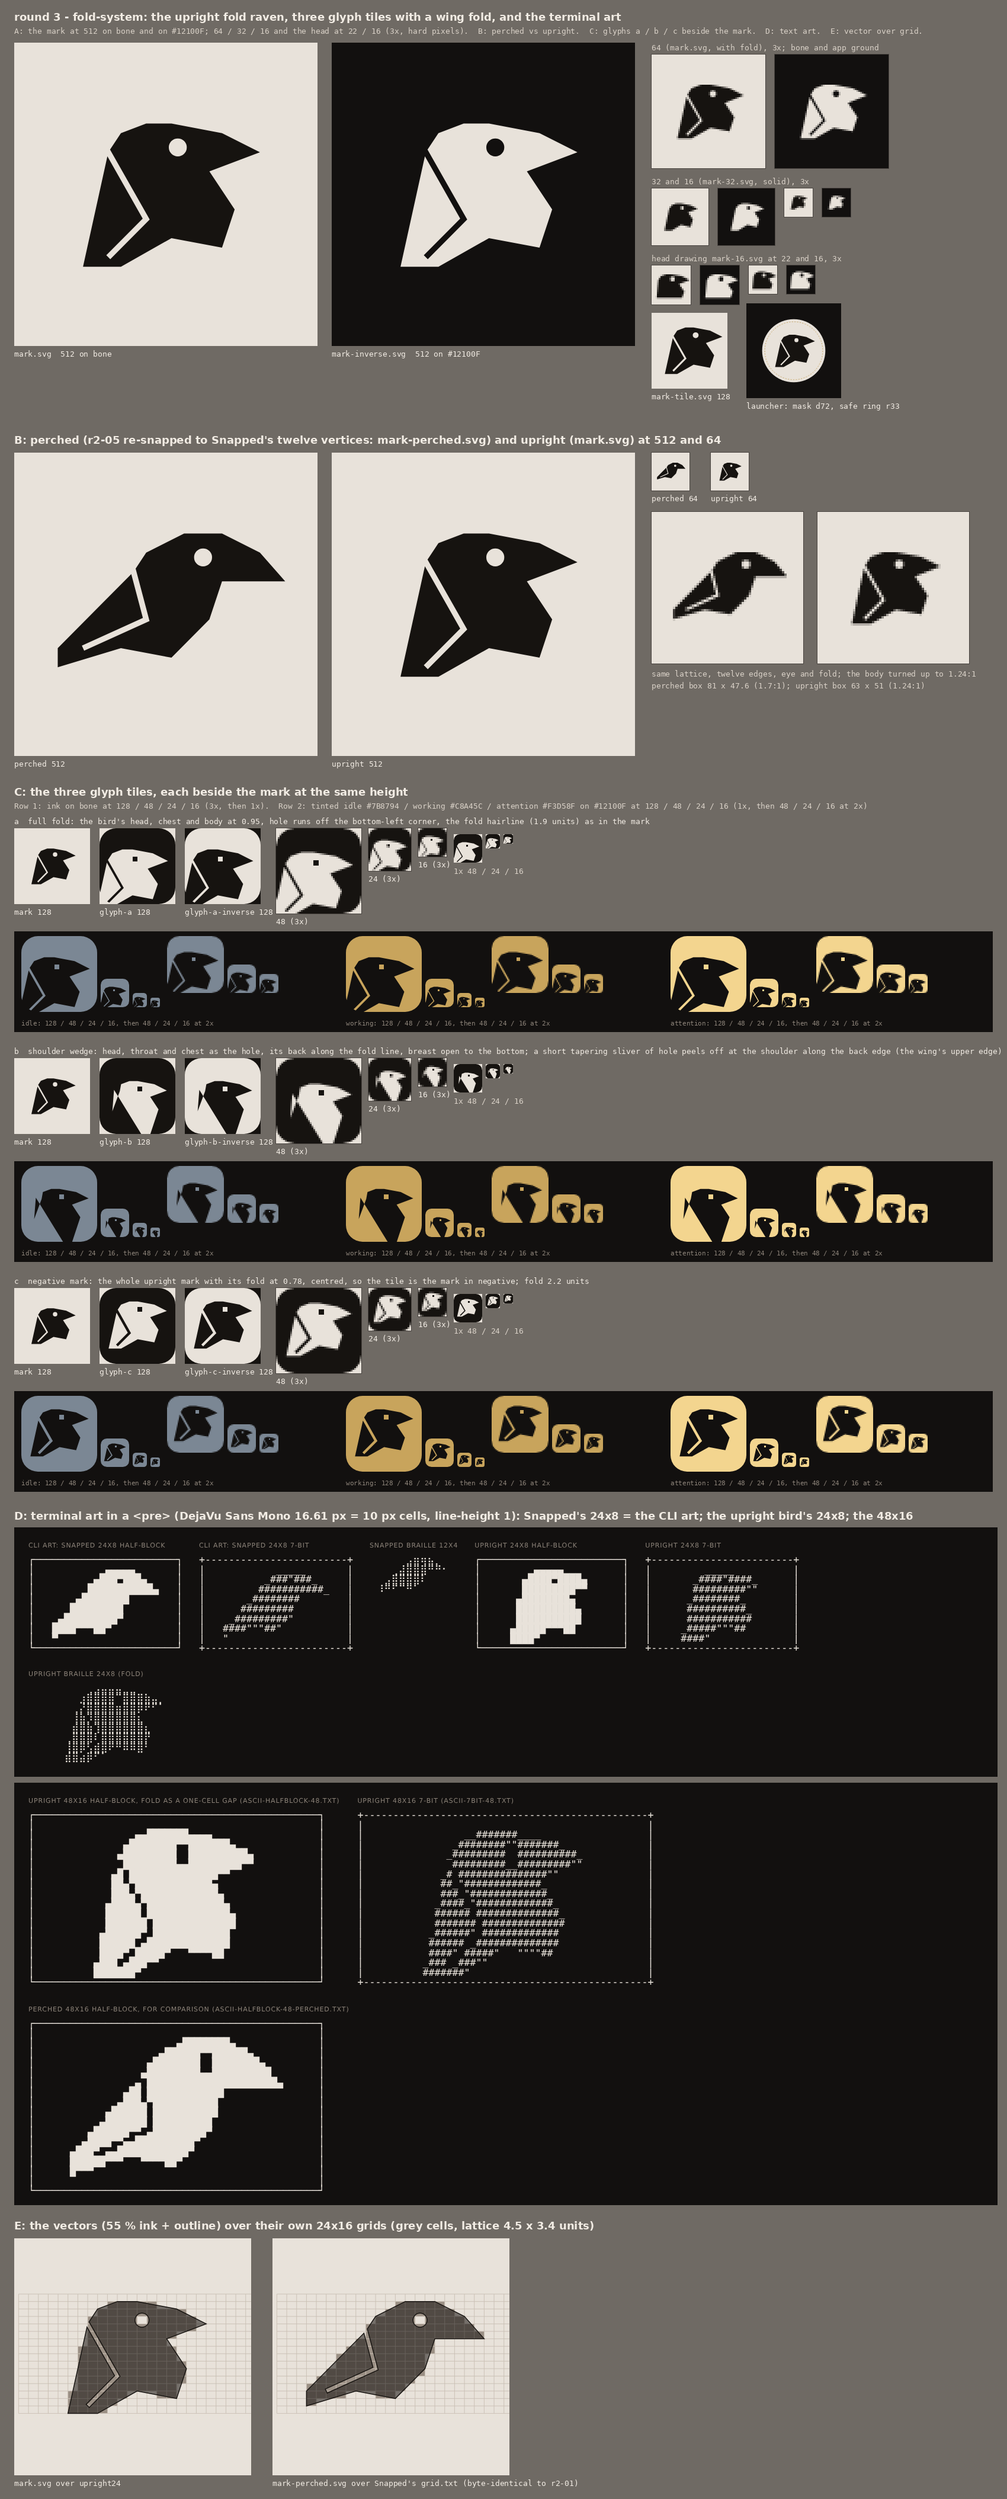
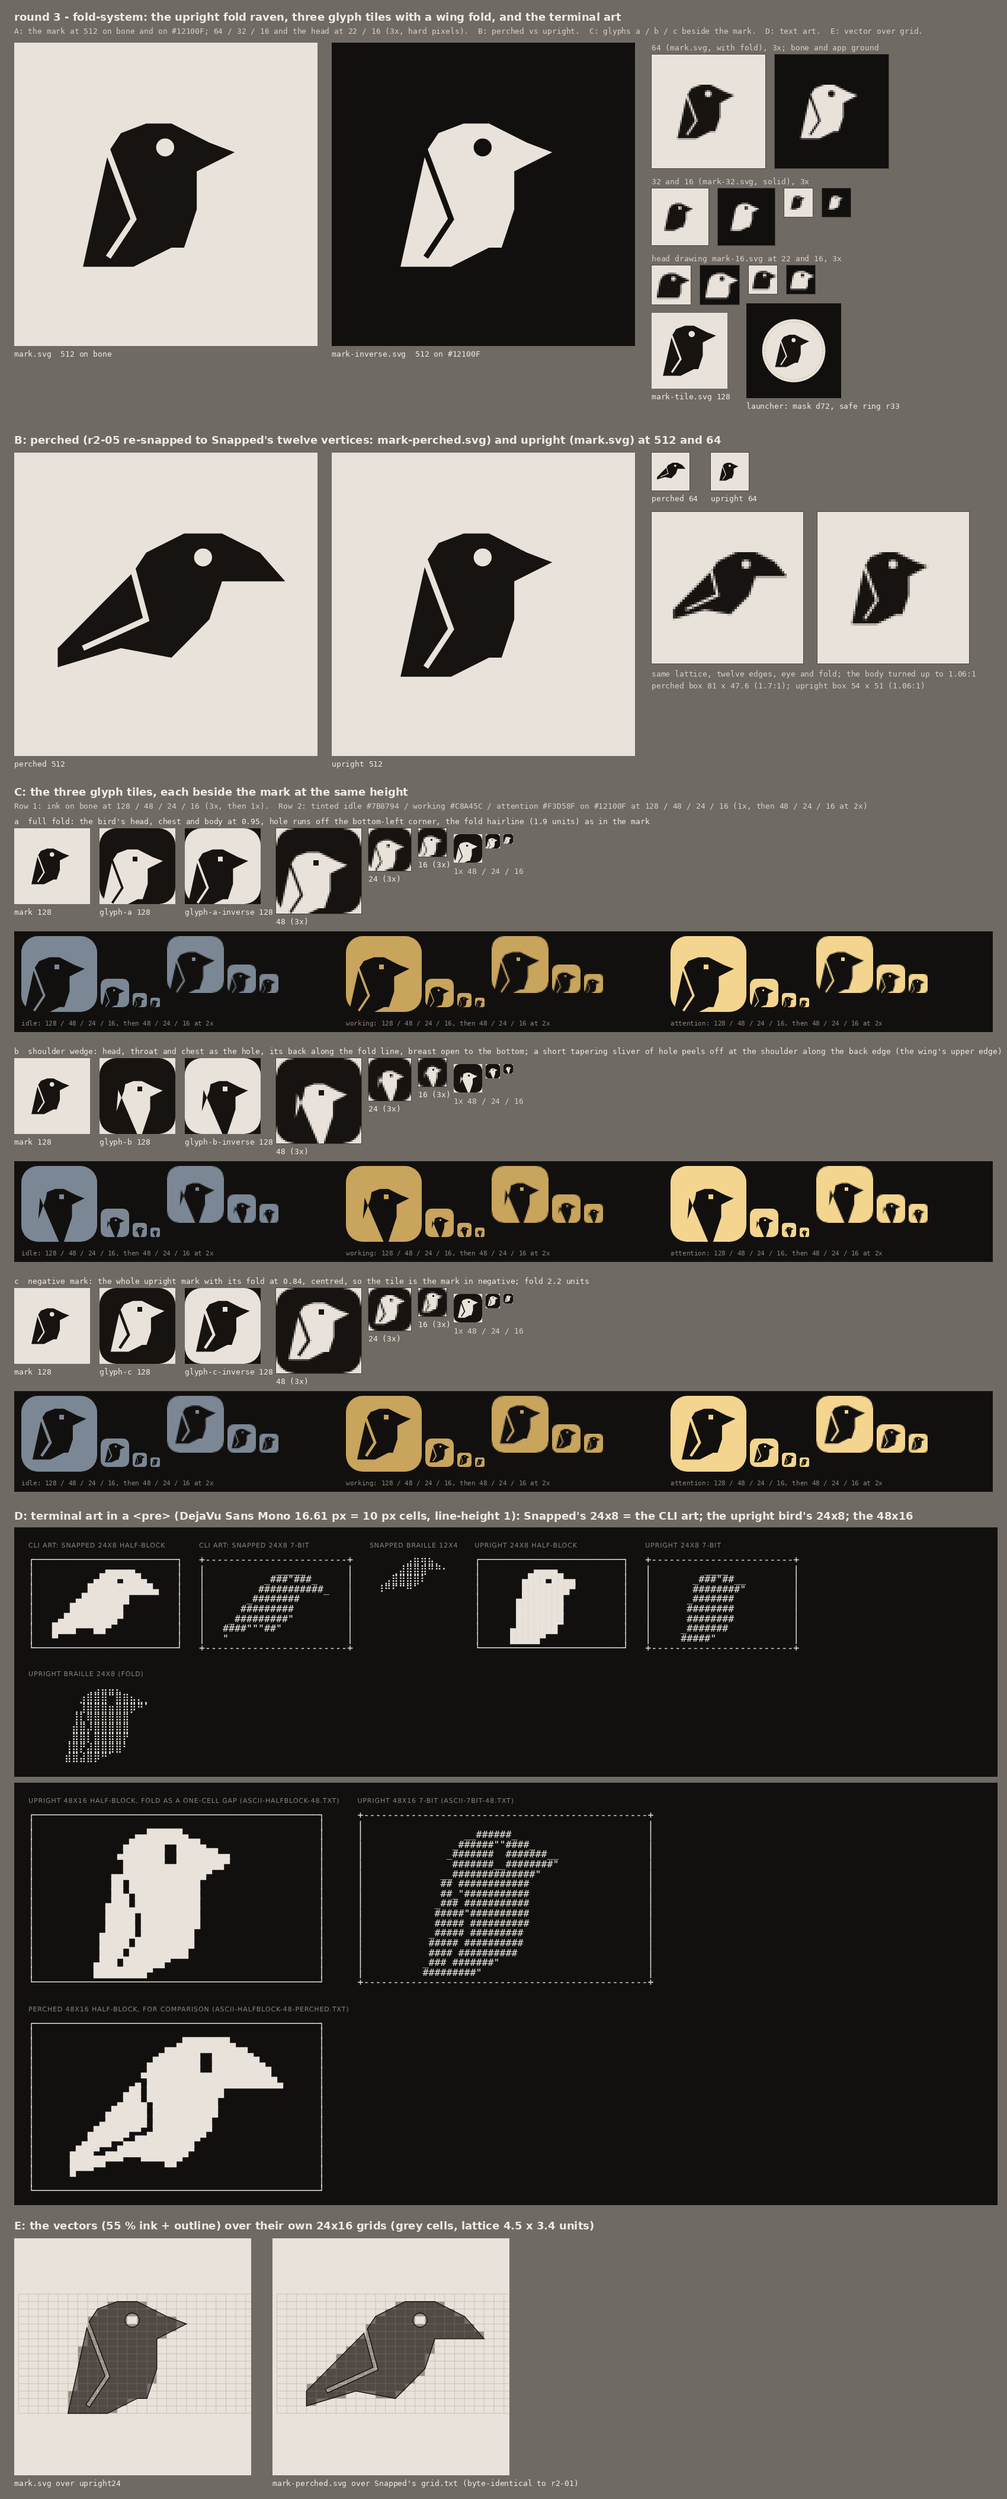
brand explorations round 3: the upright fold raven slimmed after the owner's note, glyph c and the text art regenerated
Claude-Session: https://claude.ai/code/session_01MsYQ558wxNsKznJYwKmX96

diff --git a/assets/brand/explorations/round3/fold-system/build.py b/assets/brand/explorations/round3/fold-system/build.py
@@ -16,7 +16,9 @@ fold along the folded wing):
   PERCHED  the r2-05 fold raven re-snapped to Snapped's twelve vertices (mark-perched.svg);
            its solid silhouette IS r2-01-snapped's mark, so it rasterises to Snapped's grid.
   UPRIGHT  the same bird standing up (owner's amendment): chest forward, head raised, bill
-           slightly up, 1.24:1, fold running steeper. mark.svg and the masters.
+           slightly up, fold running steeper. mark.svg and the masters. Revised after the
+           round-3 chooser ("too wide"): bill tip pulled in two columns, chest and belly three,
+           so the box is 54 x 51 (1.06:1) instead of 63 x 51 (1.24:1).
 No dependencies beyond Python 3 for the files; the preview uses ../../tools and PIL.
 """
 import math, os, subprocess, sys, tempfile
@@ -54,21 +56,21 @@ PERCHED_SHOULDER = 5
 PERCHED_FOLD = [PERCHED[5], P(10, 10), P(5, 13)]   # shoulder -> flap corner -> wing tip on the tail
 
 # ---------------------------------------------------------------- the upright bird (the mark)
-UPRIGHT = [P(19, 4),   # bill tip
-           P(16, 2),   # culmen
+UPRIGHT = [P(17, 4),   # bill tip
+           P(15, 3),   # culmen
            P(12, 1),   # forehead
            P(10, 1),   # crown
            P(8, 2),    # back of head
            P(7, 4),    # nape / shoulder (the fold opens here)
            P(5, 16),   # tail tip
-           P(8, 16),   # tail bottom (the tail stands on the ground)
-           P(12, 13),  # under-tail notch
-           P(16, 14),  # belly
-           P(17, 10),  # chest
-           P(15, 6)]   # throat
-UPRIGHT_EYE = ((56.25, 26.3), 3.2)           # centre of cell (12,3)
+           P(9, 16),   # tail bottom (the tail stands on the ground)
+           P(12, 14),  # under-tail notch
+           P(13, 14),  # belly
+           P(14, 10),  # chest
+           P(14, 6)]   # throat
+UPRIGHT_EYE = ((51.75, 26.3), 3.2)           # centre of cell (11,3)
 UPRIGHT_SHOULDER = 5
-UPRIGHT_FOLD = [UPRIGHT[5], P(10, 11), P(7, 15)]   # shoulder -> flap corner -> wing tip on the tail
+UPRIGHT_FOLD = [UPRIGHT[5], P(9, 11), P(7, 15)]   # shoulder -> flap corner -> wing tip on the tail
 FOLD_W = 1.0                                  # half-width: the slit is 2 units
 
 NAMES = ['bill tip', 'culmen', 'forehead', 'crown', 'back of head', 'nape', 'tail tip', 'tail bottom',
@@ -184,9 +186,19 @@ def svg(paths, fill=INK, bg=None, size=512, vb='0 0 108 108', tr='translate(2,11
 
 
 # ---------------------------------------------------------------- the head drawing (16-22 px)
-# the upright bird's head, bill and neck on a 7-unit cell (plain 108 viewBox), 10 edges + eye hole r 7
-HEAD = [(105, 40), (83.5, 29), (54.5, 24), (40, 24), (26, 29), (18.5, 40), (14, 90), (84, 90), (90.5, 73), (76, 51)]
-HEAD_EYE = ((58, 37.5), 6.5)
+# the upright bird's head, bill, throat and chest scaled HS about the bill tip (placed at 105,40), closed by the
+# ground line y 90; plain 108 viewBox, 10 edges + eye hole r 6.5 (bigger than scale for legibility at 16)
+HS = 1.8
+
+
+def _H(p):
+    t = UPRIGHT[0]
+    return (round(105 + HS * (p[0] - t[0]), 1), round(40 + HS * (p[1] - t[1]), 1))
+
+
+HEAD = [_H(UPRIGHT[0]), _H(UPRIGHT[1]), _H(UPRIGHT[2]), _H(UPRIGHT[3]), _H(UPRIGHT[4]), _H(UPRIGHT[5]),
+        (14, 90), (round(_H(UPRIGHT[10])[0] - 6, 1), 90), _H(UPRIGHT[10]), _H(UPRIGHT[11])]
+HEAD_EYE = (_H(UPRIGHT_EYE[0]), 6.5)
 
 # ---------------------------------------------------------------- glyph tiles (64 box)
 GLYPH_RX = 14
@@ -345,7 +357,7 @@ def extend(a, b, y):
 GLYPH = {  # the construction parameters: scale, eye cell (x, y of its top-left, multiples of 4), slit half-width (mark units)
     'a': dict(s=0.95, cell=(28, 24), w=1.0),
     'b': dict(s=0.78, cell=(32, 24), mouth=5.0, length=18.0, kind='hole'),
-    'c': dict(s=0.78, cell=(32, 16), w=1.4),
+    'c': dict(s=0.84, cell=(32, 16), w=1.4),
 }
 
 
@@ -476,19 +488,19 @@ def build_files(verbose=True):
     note = ('Huginn mark, round 3 fold-system: the fold raven standing upright (chest forward, head raised, bill '
             'slightly up) on Snapped\'s 24x16 half-block lattice (x = 4.5i, y = 14.4 + 3.4j), twelve lattice vertices '
             'plus ONE interior cut, a 2-unit slit that opens at the shoulder and separates the folded wing from the body. '
-            'ONE evenodd path: the outer ring and a circular eye hole. Box x 18-81, y 17.8-68.8 (63 x 51, 1.24:1); '
+            'ONE evenodd path: the outer ring and a circular eye hole. Box x 22.5-76.5, y 17.8-68.8 (54 x 51, 1.06:1); '
             'translate(2,11). Ink #161310. Vertices (col,row): ' + cells(UPRIGHT) + '. Below 32 px use mark-32.svg (no fold).')
     write('mark.svg', svg(up_paths, comment=note))
     write('mark-inverse.svg', svg(up_paths, fill=BONE, comment='Inverse: bone mark for dark grounds (#12100F). Same path as mark.svg.'))
-    # tile master: the 63 x 51 box scaled 1.3 and centred on the bone tile (x 13.05-94.95, 12 % inset)
-    s = 1.3
+    # tile master: the 54 x 51 box scaled 1.4 and centred on the bone tile (x 16.2-91.8, 15 % inset)
+    s = 1.4
     tx, ty = 54 - s * 49.5, 54 - s * 43.3
     write('mark-tile.svg', svg(up_paths, bg=BONE, tr=f'translate({tx:.2f},{ty:.2f}) scale({s})',
-                               comment='App-icon master: ink mark scaled 1.3 about the box centre on the bone tile (x 13-95, y 23.2-89.5; 12 % side inset). Same path as mark.svg.'))
+                               comment='App-icon master: ink mark scaled 1.4 about the box centre on the bone tile (x 16.2-91.8, y 18.3-89.7; 15 % side inset). Same path as mark.svg.'))
     write('mark-32.svg', svg(up_solid, comment='The upright silhouette without the fold: 32 px and below (favicon-32, tray at 200 %), and the source of grid-upright.txt. Same twelve vertices.'))
     write('mark-16.svg', svg([poly_d(HEAD), circle_d(*HEAD_EYE)], tr=None, comment=(
         'mark-16: the compact drawing for 16-22 px (tray, favicon-16): the upright bird\'s head, bill, throat and chest '
-        'on a 7-unit cell, 10 straight edges plus a circular eye hole r 7; box x 21-105, y 17-90 of a plain 108 viewBox, no fold.')))
+        'scaled 1.8 about the bill tip, 10 straight edges plus a circular eye hole r 6.5; box x 14-105, y 21.6-90 of a plain 108 viewBox, no fold.')))
     write('mark-perched.svg', svg(pe_paths, comment=(
         'For comparison: the perched r2-05 fold raven re-snapped to r2-01-snapped\'s twelve vertices on its lattice '
         '(x = 4.5i, y = 14.4 + 3.4j), with the 2-unit fold slit spliced at the nape. Its solid silhouette is byte-for-byte '
@@ -504,7 +516,7 @@ def build_files(verbose=True):
             'b': ('Glyph B "shoulder wedge": the head, throat, chest and the wing\'s upper edge as a hole (the bird at 0.83), the breast open '
                   'onto the bottom edge; the fold is a short ink wedge (3 units at the mouth, 11 long, tapering to nothing) opening at the '
                   'shoulder only; eye a 4x4 ink cell at x 32-36, y 24-28. ONE evenodd path.'),
-            'c': ('Glyph C "negative mark": the whole upright mark with its fold at 0.72 as a hole in the rounded square, so the tile is the mark '
+            'c': ('Glyph C "negative mark": the whole upright mark with its fold at 0.84 as a hole in the rounded square, so the tile is the mark '
                   'in negative; the fold is a 2.2-unit ink hairline, the eye a 4x4 ink cell at x 36-40, y 20-24. ONE evenodd path.')}[g]
         write(f'glyph-{g}.svg', svg(paths, vb='0 0 64 64', tr=None, comment=gnote))
         write(f'glyph-{g}-inverse.svg', svg(paths, fill=BONE, bg=INK, vb='0 0 64 64', tr=None,
@@ -833,8 +845,8 @@ def build_preview(grids):
     put(Tp('m-bone-64.png'), 1200, y, 1, label='upright 64', frame='#4A4541')
     put(Tp('p-bone-64.png'), 1100, y + 100, 4, frame='#4A4541')
     put(Tp('m-bone-64.png'), 1380, y + 100, 4, frame='#4A4541')
-    sub(1100, y + 365, 'same lattice, twelve edges, eye and fold; the body turned up to 1.24:1')
-    sub(1100, y + 385, 'perched box 81 x 47.6 (1.7:1); upright box 63 x 51 (1.24:1)')
+    sub(1100, y + 365, 'same lattice, twelve edges, eye and fold; the body turned up to 1.06:1')
+    sub(1100, y + 385, 'perched box 81 x 47.6 (1.7:1); upright box 54 x 51 (1.06:1)')
 
     # C ---------------------------------------------------------------- glyphs
     yC = yB + 32 + 512 + 50
@@ -843,7 +855,7 @@ def build_preview(grids):
     y = yC + 52
     desc = {'a': "a  full fold: the bird's head, chest and body at 0.95, hole runs off the bottom-left corner, the fold hairline (1.9 units) as in the mark",
             'b': "b  shoulder wedge: head, throat and chest as the hole, its back along the fold line, breast open to the bottom; a short tapering sliver of hole peels off at the shoulder along the back edge (the wing's upper edge)",
-            'c': "c  negative mark: the whole upright mark with its fold at 0.78, centred, so the tile is the mark in negative; fold 2.2 units"}
+            'c': "c  negative mark: the whole upright mark with its fold at 0.84, centred, so the tile is the mark in negative; fold 2.2 units"}
     for g in 'abc':
         sub(24, y, desc[g], '#F2ECE4')
         y += 20

diff --git a/assets/brand/explorations/round3/fold-system/README.md b/assets/brand/explorations/round3/fold-system/README.md
@@ -15,9 +15,15 @@ sheet). Edit the vertex lists there, not the files.
    raised, bill slightly up, the way `r2-03-watching` stands, but drawn with the fold raven's
    own head (flat crown, forehead step, the decurved culmen, the round eye hole) and body
    language (twelve straight edges, one hairline fold). It is the perched bird's head rotated up
-   about fifteen degrees and a body turned under it. Box 63 × 51 units, **1.24 : 1** (perched:
+   about fifteen degrees and a body turned under it. Box 54 × 51 units, **1.06 : 1** (perched:
    81 × 47.6, 1.7 : 1), so it fills a tile and the launcher circle instead of lying along their
    bottom. The perched drawing stays in the folder as `mark-perched.svg` for comparison.
+   **Revised after the round-3 chooser** (owner: "the upright position made the bird too fat, or
+   too wide horizontally"): the first upright bird was 63 × 51 (1.24 : 1) with the chest one
+   column behind the bill tip, a convex mass from bill to belly. The bill tip came in two
+   columns (19 → 17) and the culmen one row down (so the bill keeps its depth), the chest and
+   belly came in three columns (17 → 14, 16 → 13), the throat one; the back, tail and head are
+   unchanged. Width 14 → 12 columns, the body now a slender wedge under the same raven head.
 2. **Grid alignment, not a redraw.** Round 2's fold bird lived on its own lattice (cells
    4.5 × 3.25, rows from y 17) and so could not reproduce Snapped's 24 × 8 text art. Both birds
    here sit on **Snapped's lattice**: 24 columns × 16 half-rows, cell **4.5 × 3.4** units, column
@@ -52,37 +58,39 @@ Twelve lattice vertices, clockwise from the bill tip, (column, row) → units:
 
 | vertex | lattice | units | vertex | lattice | units |
 |---|---|---|---|---|---|
-| bill tip | (19, 4) | 85.5, 28 | tail tip | (5, 16) | 22.5, 68.8 |
-| culmen | (16, 2) | 72, 21.2 | tail bottom | (8, 16) | 36, 68.8 |
+| bill tip | (17, 4) | 76.5, 28 | tail tip | (5, 16) | 22.5, 68.8 |
+| culmen | (15, 3) | 67.5, 24.6 | tail bottom | (9, 16) | 40.5, 68.8 |
 | forehead | (12, 1) | 54, 17.8 | under-tail notch | (12, 13) | 54, 58.6 |
-| crown | (10, 1) | 45, 17.8 | belly | (16, 14) | 72, 62 |
-| back of head | (8, 2) | 36, 21.2 | chest | (17, 10) | 76.5, 48.4 |
-| nape / shoulder | (7, 4) | 31.5, 28 | throat | (15, 6) | 67.5, 34.8 |
+| crown | (10, 1) | 45, 17.8 | belly | (13, 14) | 58.5, 62 |
+| back of head | (8, 2) | 36, 21.2 | chest | (14, 10) | 63, 48.4 |
+| nape / shoulder | (7, 4) | 31.5, 28 | throat | (14, 6) | 63, 34.8 |
 
-- **Slopes.** Every edge is horizontal, vertical or p : q with p or q even (bill 3:2 and 4:1,
-  crown flat, back of head 2:1, neck 1:2, back 1:6, tail base flat, under-tail 4:3, belly 4:1,
-  chest 1:4 and 1:2, gonys 2:1), so no edge passes through a cell centre and the 24 × 16 raster
+- **Slopes.** Every edge is horizontal, vertical or p : q with p or q even (bill 2:1 and 3:2,
+  crown flat, back of head 2:1, neck 1:2, back 1:6, tail base flat, under-tail 3:2, belly flat,
+  chest 1:4, throat vertical, gonys 3:2), so no edge passes through a cell centre and the 24 × 16 raster
   has no cell between 42 % and 58 % coverage (the build asserts it). The back is the steep
   edge: two columns over twelve rows.
-- **Eye.** A circle r 3.2 at the centre of cell (12, 3) = (56.25, 26.3): 29 units behind the bill
-  tip, as in the perched bird, 5.3 units of brow under the forehead. One ground cell in the
+- **Eye.** A circle r 3.2 at the centre of cell (11, 3) = (51.75, 26.3): 25 units behind the bill
+  tip (29 in the perched bird; the bill is 4.5 shorter), 5.3 units of brow under the forehead. One ground cell in the
   raster, a 3 × 4 hole in the 2× grid.
-- **Fold.** Centreline shoulder (7, 4) → flap corner (10, 11) → wing tip (7, 15), i.e.
-  (31.5, 28) → (45, 51.8) → (31.5, 65.4), half-width 1 (a 2-unit slit), spliced into the ring at
+- **Fold.** Centreline shoulder (7, 4) → flap corner (9, 11) → wing tip (7, 15), i.e.
+  (31.5, 28) → (40.5, 51.8) → (31.5, 65.4), half-width 1 (a 2-unit slit), spliced into the ring at
   the shoulder so the mark is one 17-vertex ring plus the eye hole. The front edge of the flap
-  now runs at 60° from horizontal (the perched one at 75° on the other side of vertical, i.e.
+  now runs at 69° from horizontal (the perched one at 75° on the other side of vertical, i.e.
   the flap hangs rather than lies), the wing tip rests inside the tail wedge 3.4 units above the
   ground line. The fold is dropped at 32 px and below: `mark-32.svg` is the twelve-vertex solid.
-- **Bill slightly up.** The gonys rises 6.8 units over 18 (21°) from throat to tip, the culmen
-  drops 27°; the bill's axis is about 10° above horizontal. The chest sits 9 units behind the
-  bill tip, the belly 10 units below the chest.
-- **Box** x 22.5–85.5, y 17.8–68.8 of the path frame, inside the canon box x 10–95 / y 17–69.
+- **Bill slightly up.** The gonys rises 6.8 units over 13.5 (27°) from throat to tip, the culmen
+  drops 21°; the bill's axis is about 3° above horizontal, the lift now carried by the raised
+  head rather than the bill. The chest sits 13.5 units behind the bill tip, the belly 13.6
+  units below the chest and directly under the throat.
+- **Box** x 22.5–76.5, y 17.8–68.8 of the path frame, inside the canon box x 10–95 / y 17–69.
   Launcher (pivot 52,43, scale 0.72): farthest vertex 28.2 dp from centre, inside the
-  33 dp safe radius. `mark-tile.svg` scales the bird 1.3 about its box centre (x 13–95, 12 %
+  33 dp safe radius. `mark-tile.svg` scales the bird 1.4 about its box centre (x 16.2–91.8, 15 %
   side inset).
 - **Head drawing** (`mark-16.svg`, 16–22 px): the upright head's own nodes (tip, culmen,
-  forehead, crown, back of head, nape) scaled 1.6 about the bill tip, closed by a straight back
-  and the chest facet, eye hole r 6.5 at (58, 37.5); box x 14–105 / y 24–90. No fold.
+  forehead, crown, back of head, nape, throat, chest) scaled 1.8 about the bill tip, closed by
+  the ground line, eye hole r 6.5 at (60.4, 36.9); box x 14–105 / y 21.6–90. No fold. Derived
+  in `build.py` from the mark's vertices, so it follows any further change.
 
 ## The three glyph options
 
@@ -95,7 +103,7 @@ no coincident edges and no slivers in the corners.
 |---|---|---|---|---|---|
 | **a** `glyph-a.svg` **full fold** | the bird at 0.95 (head, chest, belly), eye cell x 28–32 / y 24–28; the tail leaves the tile through the bottom-left corner, so the breast cut-out continues down into the body and the folded wing | the mark's own 2-unit slit, scaled (1.9 units): an ink hairline inside the hole from the shoulder down the flap's front edge and back to the wing tip | the flap reads as a wing | a faint grey hairline; the bird reads, the wing is a hint | **fold gone** (0.5 px, antialiased away); a tile with a big bird-head hole |
 | **b** `glyph-b.svg` **shoulder wedge** | head, throat and chest at 0.78, eye cell x 32–36 / y 24–28, the breast open onto the bottom edge; the hole's back runs down the **fold line**, so the tile ink behind it is the folded wing; at the shoulder a 5-unit-wide, 18-unit-long sliver of hole peels off along the **back edge** and tapers to nothing: the wing's upper edge, the fold's mouth, nothing else | the sliver only | a small feather lifting off the shoulder; the fold is implied by the kinked back | a one-pixel tick | **fold gone**; the cleanest 16 of the three (head, bill, eye, chest) |
-| **c** `glyph-c.svg` **negative mark** | the whole upright mark with its fold at 0.78, centred (margins left 8, right 7, top 11, bottom 13), eye cell x 32–36 / y 16–20 | the slit widened to 2.8 units in the mark = 2.2 in the tile, so it survives 24 | the mark in negative, fold and all | a light seam along the wing: still a fold | **fold gone** (0.55 px); a tile with a standing bird, bill and tail legible |
+| **c** `glyph-c.svg` **negative mark** | the whole upright mark with its fold at 0.84 (up from 0.78 once the bird was slimmer), centred (margins left 9.4, right 9.2, top 10.9, bottom 10.3), eye cell x 32–36 / y 16–20 | the slit widened to 2.8 units in the mark = 2.35 in the tile, so it survives 24 | the mark in negative, fold and all | a light seam along the wing: still a fold | **fold gone** (0.55 px); a tile with a standing bird, bill and tail legible |
 
 **How they differ.** (a) is the biggest bird and the most literal fold, bought with no margin: the
 tail is cropped and the bird nearly touches the right wall, so at 16 it is a hole with a bill. (b)
@@ -152,7 +160,7 @@ columns in round 2, which is why the 24 × 8 files stay solid).
 
 | file | what |
 |---|---|
-| `mark.svg`, `mark-inverse.svg` | the upright fold raven, ink / bone, ONE evenodd path (17-vertex ring + eye hole), 108 viewBox, `translate(2,11)`, box x 22.5–85.5 / y 17.8–68.8 |
+| `mark.svg`, `mark-inverse.svg` | the upright fold raven, ink / bone, ONE evenodd path (17-vertex ring + eye hole), 108 viewBox, `translate(2,11)`, box x 22.5–76.5 / y 17.8–68.8 |
 | `mark-tile.svg` | app-icon master: the mark scaled 1.3 on the bone tile |
 | `mark-32.svg` | the upright silhouette without the fold (32 px and below); the source of `grid-upright.txt` |
 | `mark-16.svg` | the head drawing for 16–22 px |
